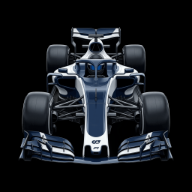
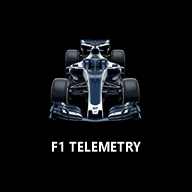
Apply F1 TELEMETRY branding and add splash assets
Standardize app branding from "F1-Telemetry" to "F1 TELEMETRY" across index.html, App.jsx, and the PWA manifest. Add new launcher/splash/icon assets to public (splash_192.png, splash_512.png, launcher_192.png, launcher_512.png, icon_with_text*, source_car.png) and update apple-touch/maskable icons. Inject an initial splash element in index.html and implement a fade-out/removal in src/index.jsx so the splash is removed after React mounts. Update vite.config.js to include the new assets in the generated manifest and replace icon references accordingly.

diff --git a/vite.config.js b/vite.config.js
@@ -17,11 +17,15 @@ export default defineConfig({
         "apple-touch-icon.png",
         "maskable_icon_192x192.png",
         "maskable_icon_512x512.png",
+        "splash_512.png",
+        "splash_192.png",
+        "launcher_512.png",
+        "launcher_192.png",
       ],
       manifestFilename: "manifest.json",
       manifest: {
-        name: "F1-Telemetry",
-        short_name: "F1-Telemetry",
+        name: "F1 TELEMETRY",
+        short_name: "F1 TELEMETRY",
         description: "In-depth Formula One Telemetry and Analysis",
         theme_color: "#000000",
         background_color: "#000000",
@@ -31,25 +35,25 @@ export default defineConfig({
         orientation: "any",
         icons: [
           {
-            src: "maskable_icon_192x192.png",
+            src: "splash_192.png",
             sizes: "192x192",
             type: "image/png",
             purpose: "any",
           },
           {
-            src: "maskable_icon_192x192.png",
+            src: "launcher_192.png",
             sizes: "192x192",
             type: "image/png",
             purpose: "maskable",
           },
           {
-            src: "maskable_icon_512x512.png",
+            src: "splash_512.png",
             sizes: "512x512",
             type: "image/png",
             purpose: "any",
           },
           {
-            src: "maskable_icon_512x512.png",
+            src: "launcher_512.png",
             sizes: "512x512",
             type: "image/png",
             purpose: "maskable",

diff --git a/index.html b/index.html
@@ -9,7 +9,7 @@
     <meta name="viewport" content="width=device-width, initial-scale=1" />
     <meta
       name="apple-mobile-web-app-title"
-      content="F1-Telemetry"
+      content="F1 TELEMETRY"
     />
     <meta
       name="description"
@@ -40,7 +40,7 @@
     />
     <meta
       property="og:title"
-      content="F1-Telemetry"
+      content="F1 TELEMETRY"
     />
     <meta
       property="og:description"
@@ -55,7 +55,7 @@
     />
     <meta
       property="twitter:title"
-      content="F1-Telemetry"
+      content="F1 TELEMETRY"
     />
     <meta
       property="twitter:description"
@@ -70,10 +70,13 @@
       href="https://fonts.googleapis.com/css2?family=Bungee&family=Lato:wght@300;400;700&display=swap"
       rel="stylesheet"
     />
-    <title>F1-Telemetry</title>
+    <title>F1 TELEMETRY</title>
   </head>
   <body>
     <noscript>You need to enable JavaScript to run this app.</noscript>
+    <div id="initial-splash" style="position: fixed; inset: 0; background-color: #000000; display: flex; flex-direction: column; align-items: center; justify-content: center; z-index: 9999; transition: opacity 0.6s cubic-bezier(0.4, 0, 0.2, 1); pointer-events: none;">
+      <img src="/splash_512.png" alt="F1 TELEMETRY" style="width: 400px; max-width: 90%; height: auto;" />
+    </div>
     <div id="root"></div>
     <script>
       // Global tracking shim to send events to Google Analytics

diff --git a/src/index.jsx b/src/index.jsx
@@ -18,6 +18,18 @@ root.render(
   </React.StrictMode>
 );
 
+// Fade out and remove the splash screen once React starts rendering
+const splash = document.getElementById('initial-splash');
+if (splash) {
+  // Use a small delay to ensure the browser has a chance to paint the first frame of the app
+  setTimeout(() => {
+    splash.style.opacity = '0';
+    setTimeout(() => {
+      splash.remove();
+    }, 600); // Match the 0.6s transition duration in index.html
+  }, 500);
+}
+
 // If you want to start measuring performance in your app, pass a function
 // to log results (for example: reportWebVitals(console.log))
 // or send to an analytics endpoint. Learn more: https://bit.ly/CRA-vitals

diff --git a/src/App.jsx b/src/App.jsx
@@ -47,9 +47,9 @@ function App() {
   useEffect(() => {
     // Update title for PWA standalone window to show full tagline
     if (window.matchMedia('(display-mode: standalone)').matches) {
-      document.title = "F1-Telemetry - In-depth Formula One Telemetry and Analysis";
+      document.title = "F1 TELEMETRY - In-depth Formula One Telemetry and Analysis";
     } else {
-      document.title = "F1-Telemetry";
+      document.title = "F1 TELEMETRY";
     }
   }, []);
 
